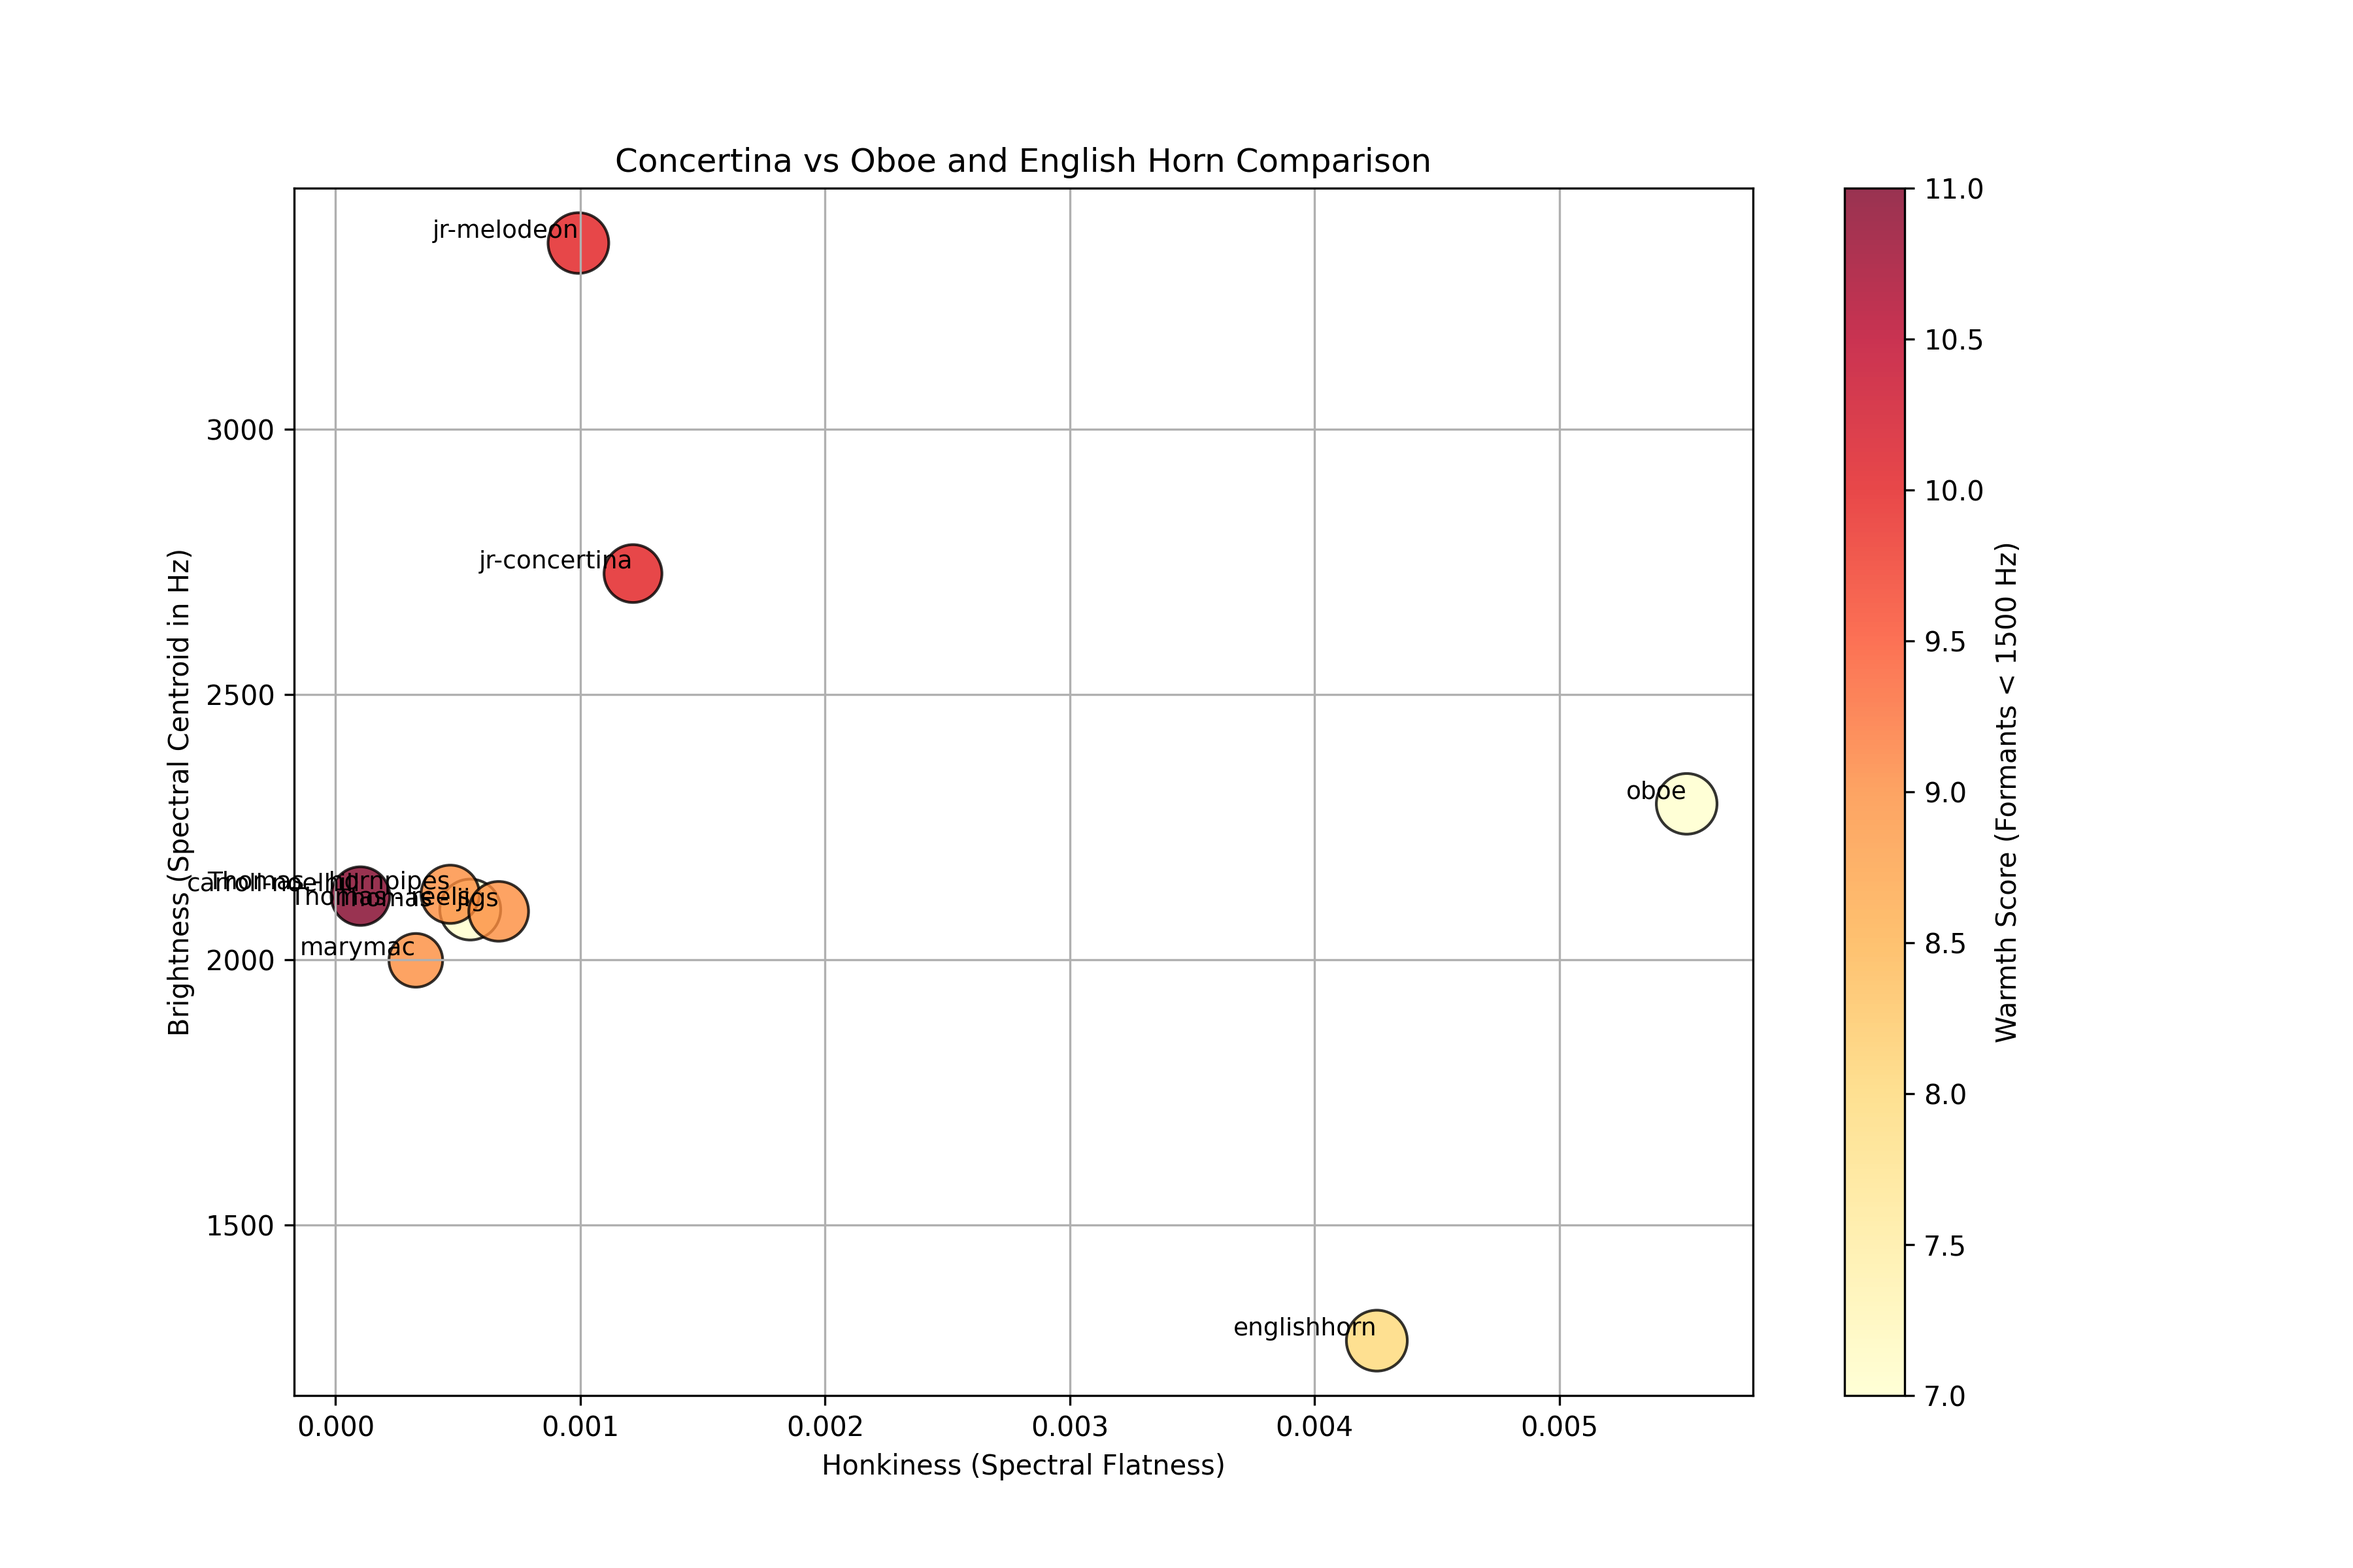
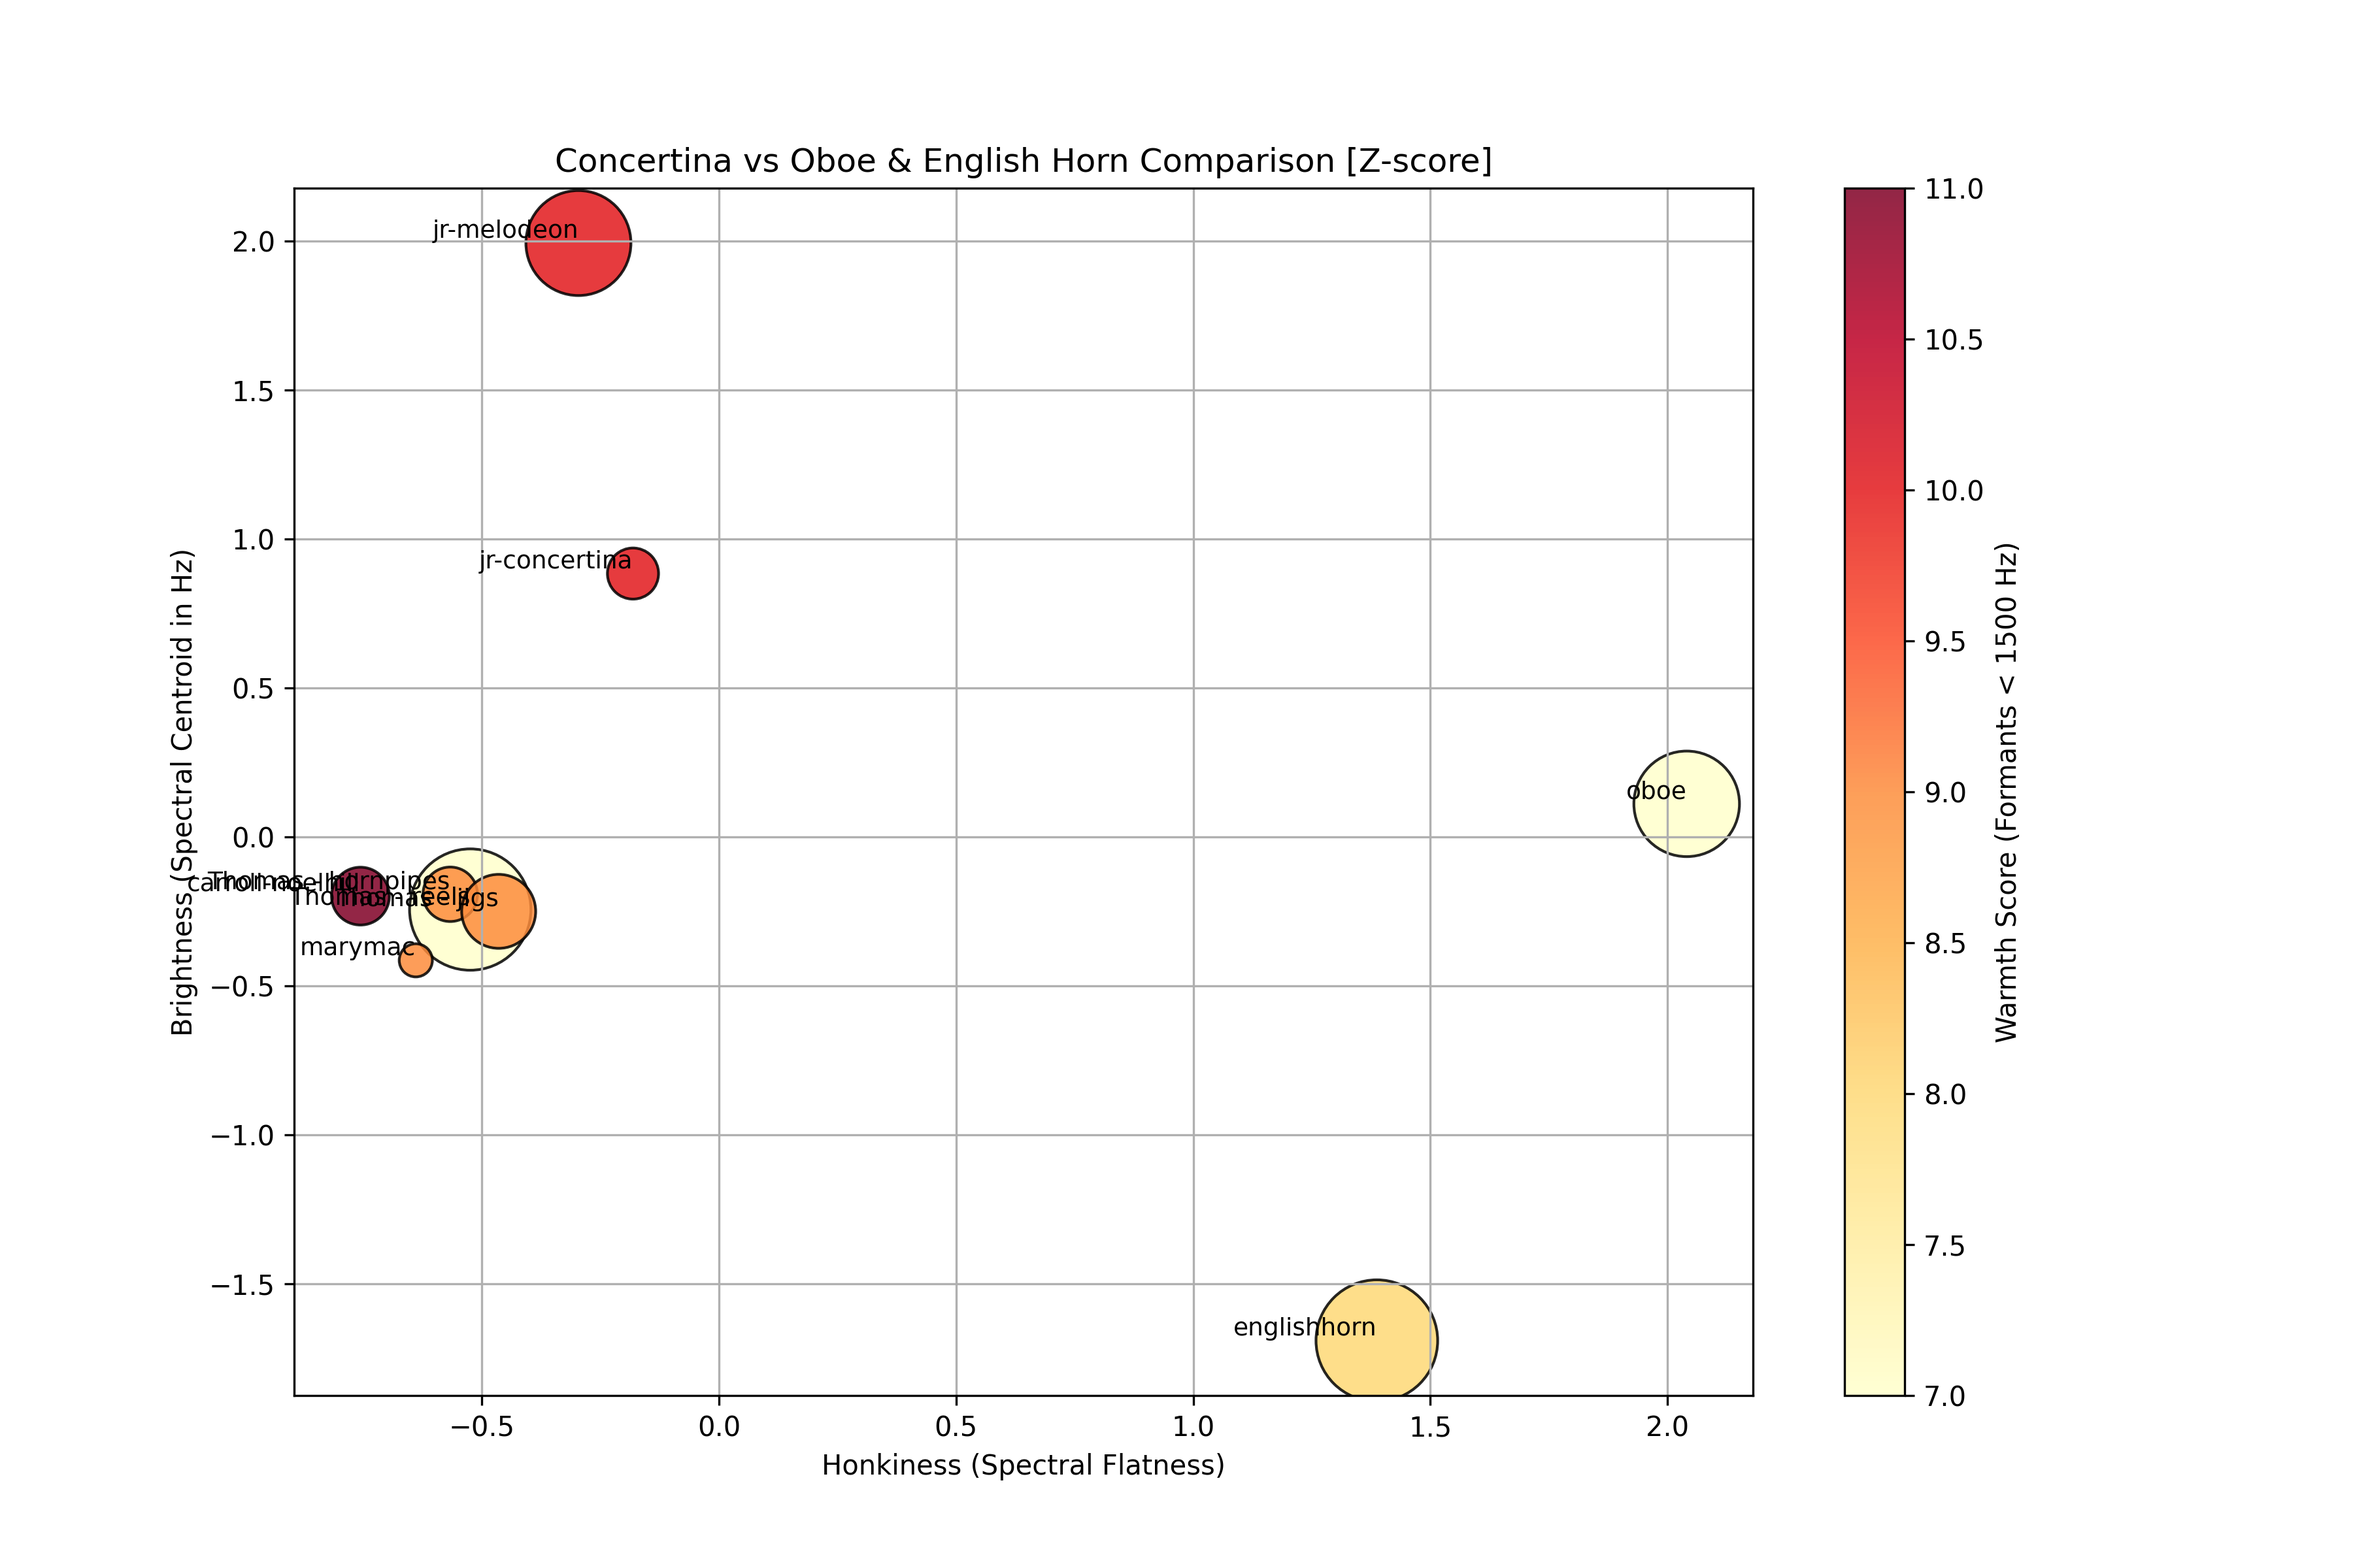
normalisation

diff --git a/honker.py b/honker.py
@@ -1,73 +1,94 @@
-import librosa
-import numpy as np
-import csv
 import os
-from scipy.signal import find_peaks
+import csv
 import argparse
+import pandas as pd
+import matplotlib.pyplot as plt
 
-def analyze_full_concertina_file(file_path, output_dir="fingerprints", frame_length=2048, hop_length=512):
-    # Ensure output directory exists
-    os.makedirs(output_dir, exist_ok=True)
+def load_fingerprint(file_path):
+    """Load a .fingerprint CSV file into a dict."""
+    data = {}
+    with open(file_path, newline='') as csvfile:
+        reader = csv.reader(csvfile)
+        next(reader)  # Skip header row
+        for row in reader:
+            if row[0] == "formant_peaks":
+                data[row[0]] = [float(f) for f in row[1].split(';')]
+            else:
+                data[row[0]] = float(row[1])
+    return data
 
-    # Load audio
-    y, sr = librosa.load(file_path, sr=None)
+def zscore_normalize(fingerprints):
+    """Apply Z-score normalization to all numeric columns in fingerprints."""
+    df = pd.DataFrame(fingerprints).T
+    numerical_cols = ['mean_centroid', 'mean_flatness', 'attack_time']
 
-    # Spectral features computed frame-by-frame
-    spectral_centroid = librosa.feature.spectral_centroid(y=y, sr=sr, n_fft=frame_length, hop_length=hop_length)[0]
-    spectral_flatness = librosa.feature.spectral_flatness(y=y, n_fft=frame_length, hop_length=hop_length)[0]
+    # Apply Z-score normalization
+    df[numerical_cols] = (df[numerical_cols] - df[numerical_cols].mean()) / df[numerical_cols].std()
 
-    # Onset/attack detection
-    onset_env = librosa.onset.onset_strength(y=y, sr=sr)
-    onset_frames = librosa.onset.onset_detect(onset_envelope=onset_env, sr=sr)
+    return df.to_dict(orient='index')
 
-    # Attack time estimate (first onset to max onset strength within a short window)
-    if len(onset_frames) > 0:
-        peak_frame = np.argmax(onset_env)
-        attack_time = (peak_frame - onset_frames[0]) / sr
+def plot_fingerprints(fingerprints, title, save_path):
+    """Create scatter plot comparing honkiness, brightness, and warmth for all instruments."""
+    names = []
+    honkiness = []
+    brightness = []
+    attack_sizes = []
+    warmth_scores = []  # Number of formants under 1500 Hz (proxy for warmth)
+
+    for name, data in fingerprints.items():
+        names.append(name)
+        honkiness.append(data['mean_flatness'])
+        brightness.append(data['mean_centroid'])
+        attack_sizes.append(500 * (1 / (1 + data['attack_time'])))  # Faster attack = smaller dot
+
+        # Warmth proxy = formant count < 1500 Hz
+        warmth_scores.append(sum(1 for f in data['formant_peaks'] if f < 1500))
+
+    plt.figure(figsize=(12, 8))
+
+    scatter = plt.scatter(
+        honkiness, brightness, 
+        s=attack_sizes, 
+        c=warmth_scores, 
+        cmap='YlOrRd', 
+        edgecolor='k', 
+        alpha=0.85
+    )
+
+    plt.colorbar(scatter, label="Warmth Score (Formants < 1500 Hz)")
+
+    for i, name in enumerate(names):
+        plt.annotate(name, (honkiness[i], brightness[i]), fontsize=9, ha='right', va='bottom')
+
+    plt.xlabel("Honkiness (Spectral Flatness)")
+    plt.ylabel("Brightness (Spectral Centroid in Hz)")
+    plt.title(title)
+    plt.grid(True)
+
+    plt.savefig(save_path, dpi=300)
+    plt.show()
+
+def analyze_fingerprints(folder, zscore):
+    """Load all fingerprints from folder and produce comparison plot."""
+    fingerprints = {}
+
+    # Load all fingerprints into a dictionary
+    for filename in os.listdir(folder):
+        if filename.endswith(".fingerprint"):
+            name = filename.replace(".fingerprint", "")
+            fingerprints[name] = load_fingerprint(os.path.join(folder, filename))
+
+    if zscore:
+        fingerprints = zscore_normalize(fingerprints)
+        plot_fingerprints(fingerprints, "Z-Score Normalized Concertina Timbre Comparison", "comparison_zscore.png")
     else:
-        attack_time = np.nan
-
-    # Aggregate stats across the file
-    stats = {
-        "mean_centroid": np.mean(spectral_centroid),
-        "min_centroid": np.min(spectral_centroid),
-        "max_centroid": np.max(spectral_centroid),
-        "mean_flatness": np.mean(spectral_flatness),
-        "min_flatness": np.min(spectral_flatness),
-        "max_flatness": np.max(spectral_flatness),
-        "attack_time": attack_time
-    }
-
-    # Spectral envelope and formants
-    stft = np.abs(librosa.stft(y, n_fft=frame_length, hop_length=hop_length))
-    avg_spectrum = np.mean(stft, axis=1)
-    freqs = librosa.fft_frequencies(sr=sr)
-
-    avg_spectrum_db = librosa.amplitude_to_db(avg_spectrum)
-    peaks, _ = find_peaks(avg_spectrum_db, distance=5)
-    formant_freqs = freqs[peaks]
-
-    # Add formant peaks (join into string for CSV)
-    stats["formant_peaks"] = ";".join([f"{freq:.2f}" for freq in formant_freqs])
-
-    # Create output file path
-    base_name = os.path.splitext(os.path.basename(file_path))[0]
-    output_file = os.path.join(output_dir, f"{base_name}.fingerprint")
-
-    # Write fingerprint to CSV
-    with open(output_file, mode='w', newline='') as file:
-        writer = csv.writer(file)
-        writer.writerow(["Feature", "Value"])
-        for key, value in stats.items():
-            writer.writerow([key, value])
-
-    print(f"Fingerprint saved to: {output_file}")
+        plot_fingerprints(fingerprints, "Raw Concertina Timbre Comparison", "comparison_raw.png")
 
 if __name__ == "__main__":
-    parser = argparse.ArgumentParser(description="Analyze a concertina recording and produce a timbre fingerprint.")
-    parser.add_argument("file_path", help="Path to the audio file (mp3, wav, etc.) to analyze.")
-    parser.add_argument("--output-dir", default="fingerprints", help="Directory to save fingerprint file.")
+    parser = argparse.ArgumentParser(description="Analyze and plot concertina fingerprints from a folder.")
+    parser.add_argument("folder", help="Folder containing .fingerprint files.")
+    parser.add_argument("--zscore", action="store_true", help="Apply Z-score normalization to fingerprints.")
 
     args = parser.parse_args()
 
-    analyze_full_concertina_file(args.file_path, args.output_dir)
+    analyze_fingerprints(args.folder, zscore=args.zscore)

diff --git a/finger.py b/finger.py
@@ -1,9 +1,11 @@
 import os
 import csv
+import argparse
+import pandas as pd
 import matplotlib.pyplot as plt
 
+# === Utility to Load Fingerprints ===
 def load_fingerprint(file_path):
-    """Load fingerprint data from a .fingerprint CSV file into a dict."""
     data = {}
     with open(file_path, newline='') as csvfile:
         reader = csv.reader(csvfile)
@@ -15,30 +17,33 @@ def load_fingerprint(file_path):
                 data[row[0]] = float(row[1])
     return data
 
-def plot_fingerprints(fingerprints, title, save_path):
-    """Generate a scatter plot comparing fingerprints."""
-    names = []
-    honkiness = []
-    brightness = []
-    attack_sizes = []
-    warmth_scores = []  # Formant count < 1500 Hz (proxy for warmth)
+# === Z-Score Normalization ===
+def zscore_normalize(fingerprints):
+    df = pd.DataFrame(fingerprints).T
+    numerical_cols = ['mean_centroid', 'mean_flatness', 'attack_time']
+    df[numerical_cols] = (df[numerical_cols] - df[numerical_cols].mean()) / df[numerical_cols].std()
+    return df.to_dict(orient='index')
+
+# === Plot Function ===
+def plot_fingerprints(fingerprints, title, save_path, normalization_steps=None):
+    names, honkiness, brightness, attack_sizes, warmth_scores = [], [], [], [], []
 
     for name, data in fingerprints.items():
         names.append(name)
         honkiness.append(data['mean_flatness'])
         brightness.append(data['mean_centroid'])
-        attack_sizes.append(500 * (1 / (1 + data['attack_time'])))  # Faster attack = smaller dot
-
-        # Warmth proxy = formants under 1500 Hz
+        attack_sizes.append(500 * (1 / (1 + data['attack_time'])))
         warmth_scores.append(sum(1 for f in data['formant_peaks'] if f < 1500))
 
     plt.figure(figsize=(12, 8))
+
     scatter = plt.scatter(
-        honkiness, brightness,
-        s=attack_sizes,
-        c=warmth_scores,
-        cmap='YlOrRd',
-        edgecolor='k', alpha=0.8
+        honkiness, brightness, 
+        s=attack_sizes, 
+        c=warmth_scores, 
+        cmap='YlOrRd', 
+        edgecolor='k', 
+        alpha=0.85
     )
     plt.colorbar(scatter, label="Warmth Score (Formants < 1500 Hz)")
 
@@ -47,33 +52,62 @@ def plot_fingerprints(fingerprints, title, save_path):
 
     plt.xlabel("Honkiness (Spectral Flatness)")
     plt.ylabel("Brightness (Spectral Centroid in Hz)")
-    plt.title(title)
-    plt.grid(True)
+    
+    full_title = title
+    if normalization_steps:
+        full_title += f" [{', '.join(normalization_steps)}]"
+    plt.title(full_title)
 
+    plt.grid(True)
     plt.savefig(save_path, dpi=300)
     plt.show()
 
-def analyze_fingerprints(folder):
-    """Load all fingerprints, plot two versions: without and with oboe/English horn."""
+# === Core Analysis - With & Without Oboe/English Horn ===
+def analyze_fingerprints(folder, zscore):
     fingerprints = {}
-    
-    # Load all fingerprints into a dict
+
     for filename in os.listdir(folder):
         if filename.endswith(".fingerprint"):
             name = filename.replace(".fingerprint", "")
             fingerprints[name] = load_fingerprint(os.path.join(folder, filename))
-    
-    # Separate concertinas and add "oboe" and "englishhorn" only in one plot
+
+    # Separate regular concertinas and add oboe/englishhorn only in the second plot
     concertinas_only = {k: v for k, v in fingerprints.items() if k not in ["oboe", "englishhorn"]}
     all_instruments = fingerprints.copy()
 
-    # Plot just concertinas
-    plot_fingerprints(concertinas_only, "Concertina Timbre Comparison (No Oboe/English Horn)", "comparison_without_oboe.png")
+    # Build list of normalization steps to embed in titles
+    normalization_steps = []
+    if zscore:
+        normalization_steps.append("Z-score")
 
-    # Plot concertinas + oboe and English horn
+    # === First Plot: Concertinas Only ===
+    if zscore:
+        concertinas_only = zscore_normalize(concertinas_only)
+    plot_fingerprints(
+        concertinas_only,
+        "Concertina Timbre Comparison (No Oboe/English Horn)",
+        "comparison_without_oboe.png",
+        normalization_steps
+    )
+
+    # === Second Plot: Concertinas + Oboe + English Horn ===
     if "oboe" in fingerprints and "englishhorn" in fingerprints:
-        plot_fingerprints(all_instruments, "Concertina vs Oboe and English Horn Comparison", "comparison_with_oboe.png")
+        if zscore:
+            all_instruments = zscore_normalize(all_instruments)
+        plot_fingerprints(
+            all_instruments,
+            "Concertina vs Oboe & English Horn Comparison",
+            "comparison_with_oboe.png",
+            normalization_steps
+        )
+    else:
+        print("⚠ Skipping 'with oboe' plot — oboe and/or englishhorn fingerprints not found.")
 
-# Run the analysis on your folder
+# === CLI Handler ===
 if __name__ == "__main__":
-    analyze_fingerprints("fingerprints")
+    parser = argparse.ArgumentParser(description="Analyze and plot concertina fingerprints from a folder.")
+    parser.add_argument("--folder", default="fingerprints", help="Folder containing .fingerprint files.")
+    parser.add_argument("--zscore", action="store_true", help="Apply Z-score normalization to fingerprints.")
+    args = parser.parse_args()
+
+    analyze_fingerprints(args.folder, zscore=args.zscore)

diff --git a/README.md b/README.md
@@ -66,3 +66,13 @@ X-axis	Mean Flatness (Honkiness) — higher values = honkier.
 Y-axis	Mean Centroid (Brightness) — higher values = brighter.
 Point Size	Attack Speed — faster attack = smaller dots.
 Point Color	Warmth Score — how many formants live under 1500 Hz (lower-mid warmth).
+
+
+# Basic run (concertinas only, no normalization)
+python finger.py
+
+# With Z-score normalization
+python finger.py --zscore
+
+# Use a custom folder (if your fingerprints are somewhere else)
+python finger.py --folder my_fingerprints/
